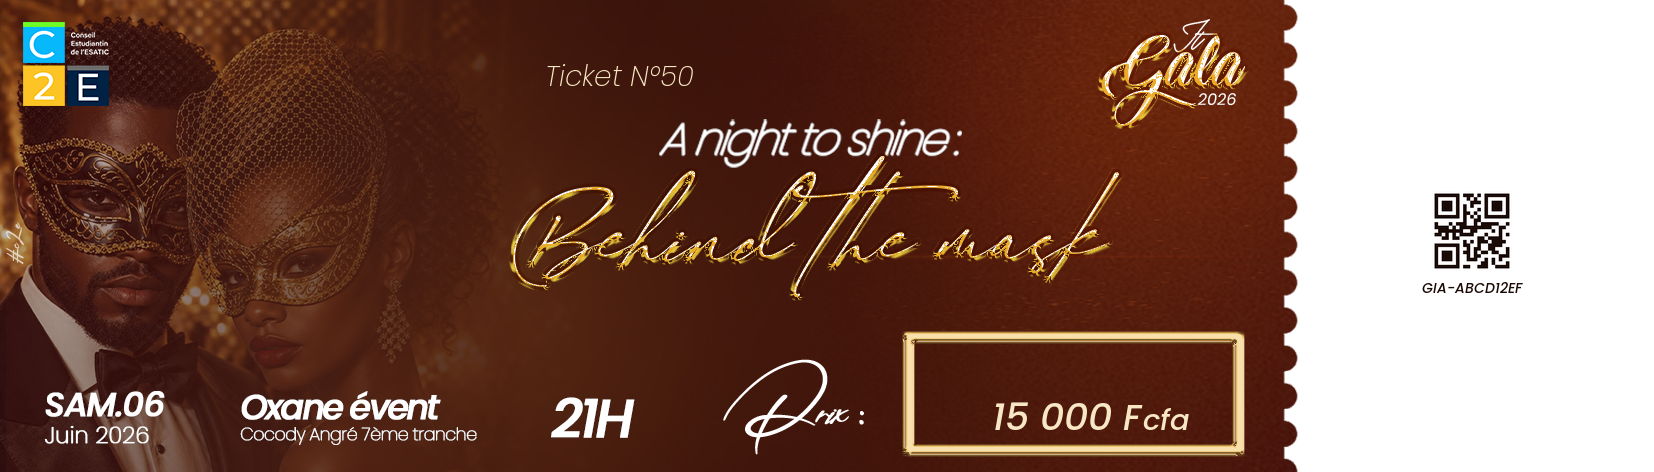
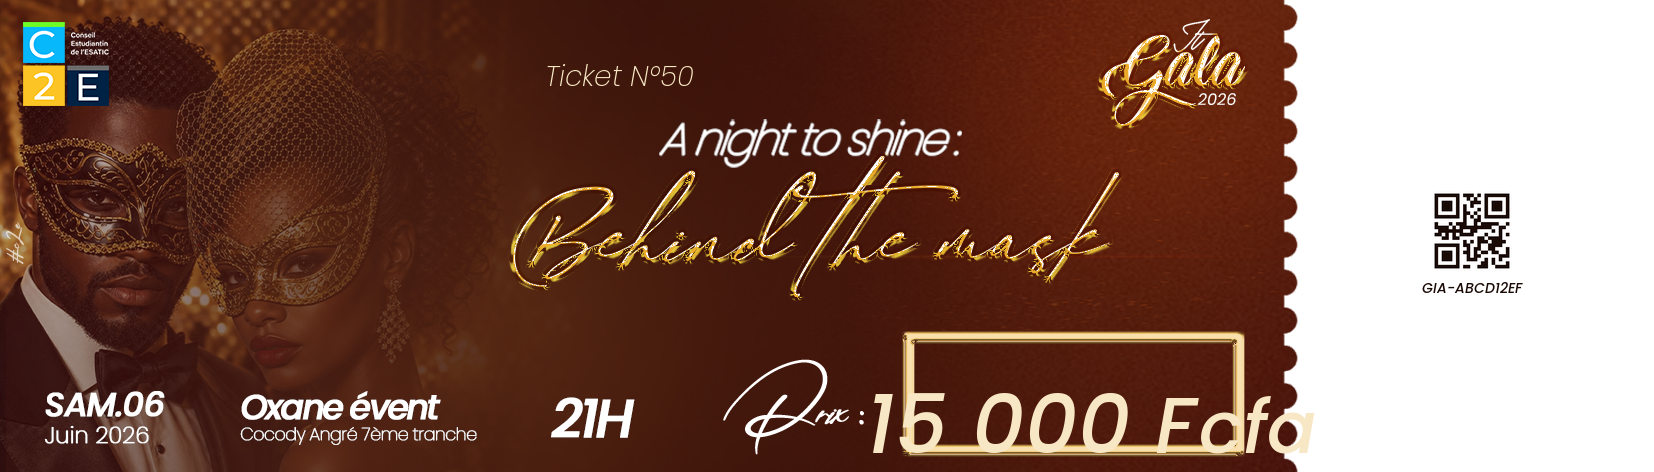
Prix agrandi

Changed region(s): [[0.5242, 0.8305, 0.8017, 0.9788]]

diff --git a/frontend/src/components/TicketQR.tsx b/frontend/src/components/TicketQR.tsx
@@ -86,13 +86,13 @@ export function TicketQR({ ticket }: { ticket: Ticket; gala?: Gala | null }) {
             outline: DEBUG_OVERLAYS ? "2px solid #3bb6ff" : undefined,
           }}
         >
-          <span style={{ fontSize: "21px", verticalAlign: "baseline" }}>
+          <span style={{ fontSize: "45px", verticalAlign: "baseline" }}>
             {new Intl.NumberFormat("fr-FR").format(Math.round(ticket.price))}
           </span>
-          <span style={{ fontSize: "19px", verticalAlign: "baseline" }}>
+          <span style={{ fontSize: "43px", verticalAlign: "baseline" }}>
             {" F"}
           </span>
-          <span style={{ fontSize: "16px", verticalAlign: "baseline" }}>
+          <span style={{ fontSize: "40px", verticalAlign: "baseline" }}>
             cfa
           </span>
         </span>

diff --git a/backend/app/services/ticket_image.py b/backend/app/services/ticket_image.py
@@ -45,9 +45,9 @@ _QR_DARK = (26, 10, 5)
 # (facteur ~1.83x entre 96 DPI / CSS et le pixel natif du template),
 # donc les valeurs CSS spec sont multipliees par ce facteur.
 _NUMBER_FONT_SIZE = 28   # Poppins ExtraLight Italic — "Ticket N°{id}" (11pt)
-_PRICE_NUMBER_SIZE = 38  # Poppins Medium Italic — chiffres du prix (21px CSS)
-_PRICE_F_SIZE = 35       # Poppins Medium Italic — "F" majuscule    (19px CSS)
-_PRICE_CFA_SIZE = 29     # Poppins Medium Italic — "cfa" minuscules (16px CSS)
+_PRICE_NUMBER_SIZE = 82  # Poppins Medium Italic — chiffres du prix (45px CSS)
+_PRICE_F_SIZE = 79       # Poppins Medium Italic — "F" majuscule    (43px CSS)
+_PRICE_CFA_SIZE = 73     # Poppins Medium Italic — "cfa" minuscules (40px CSS)
 _CODE_FONT_SIZE = 14     # monospace fallback sous le QR
 
 
